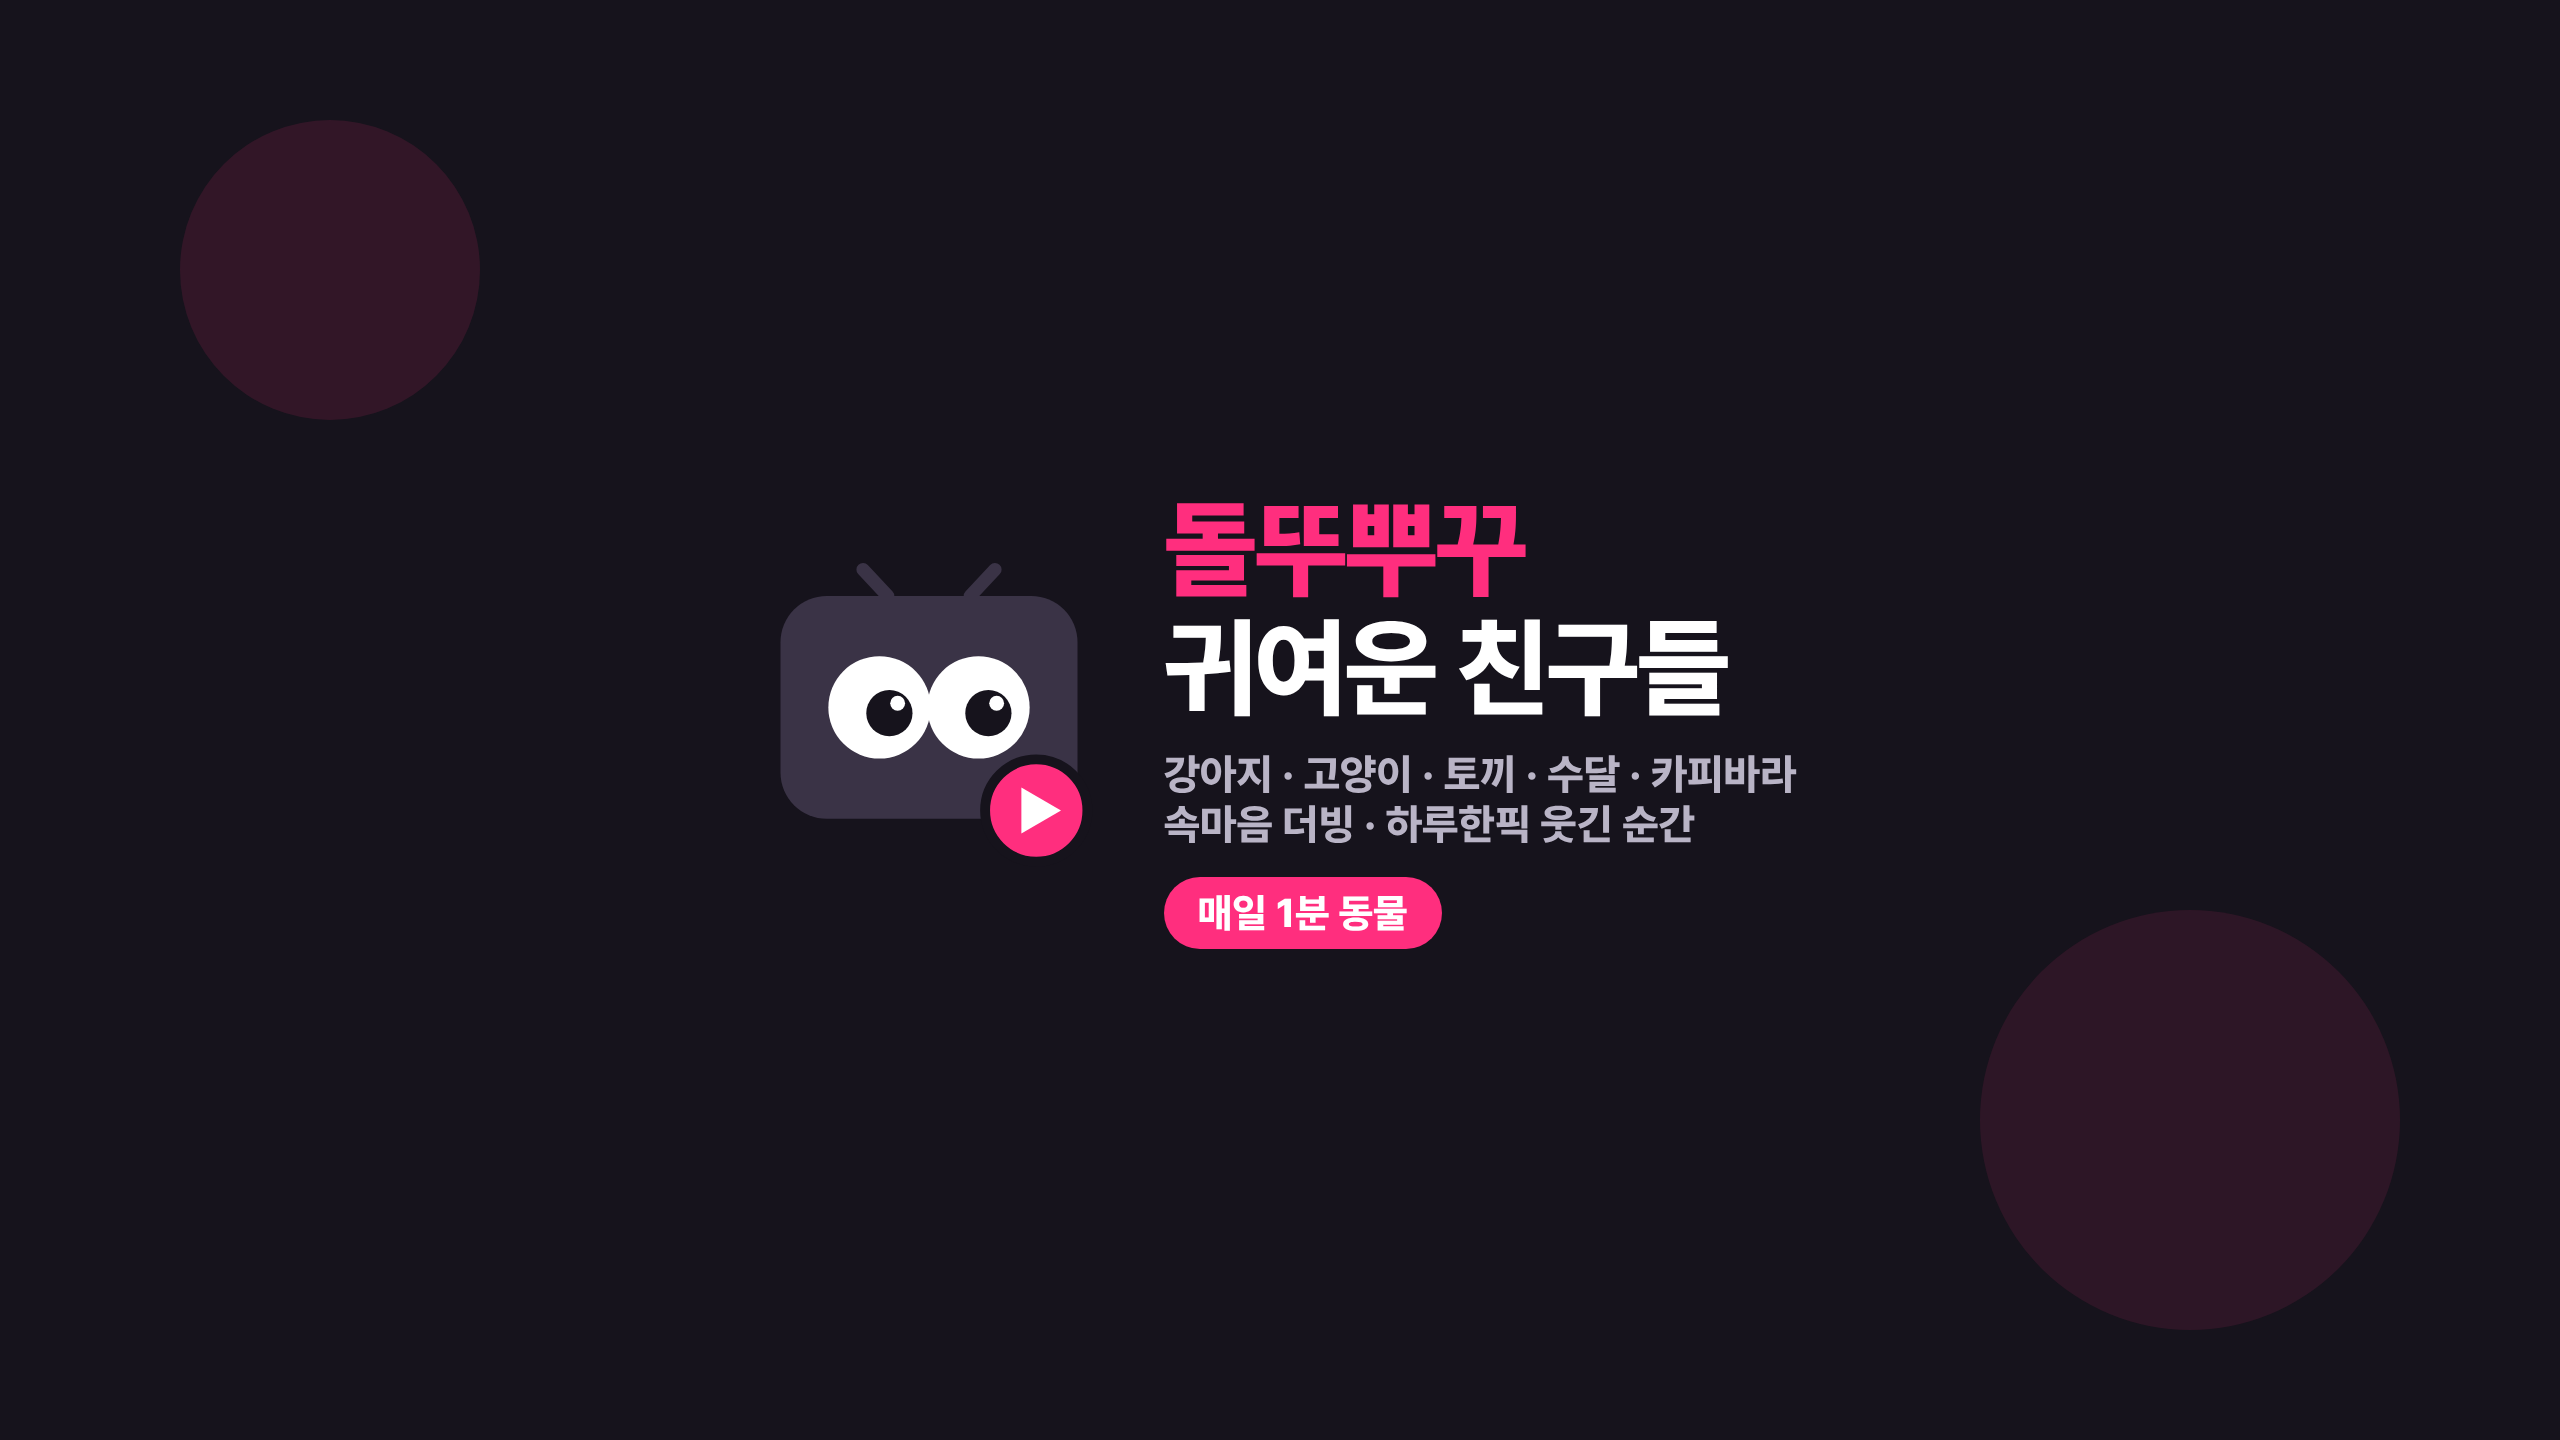
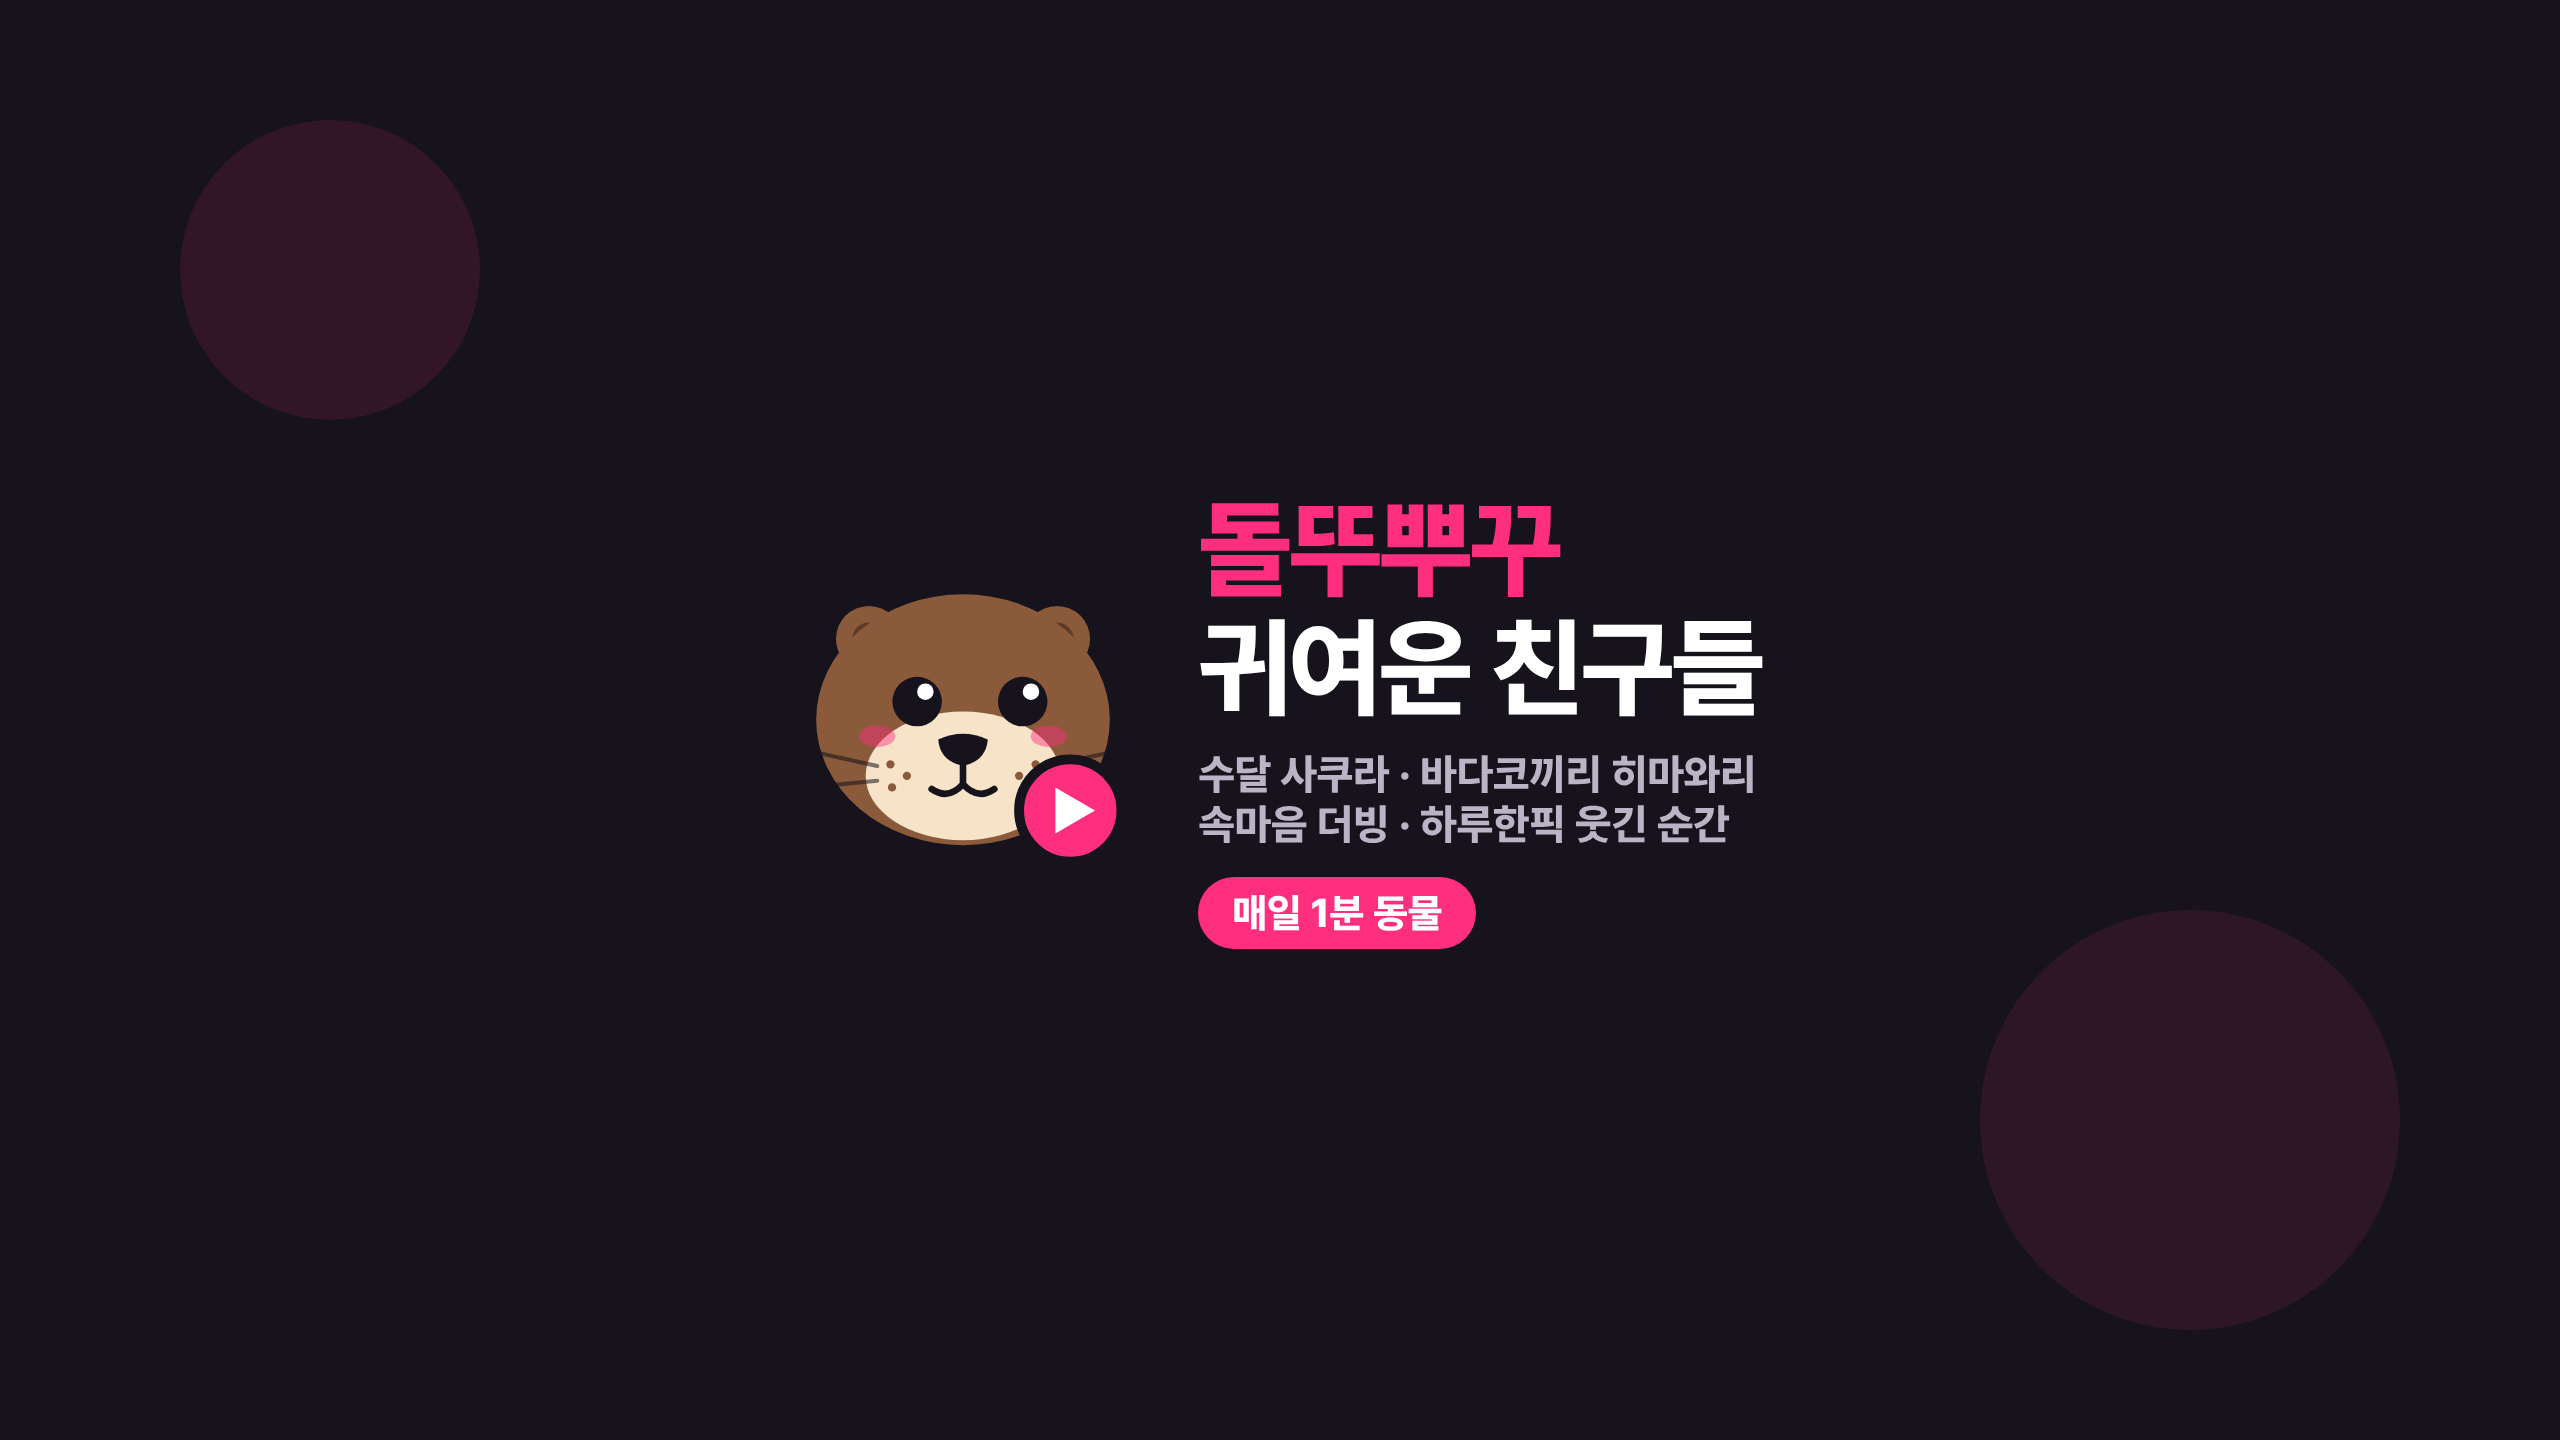
채널 얼굴을 수달 캐릭터로: 프로필·배너·인트로 (#20)
TV 로고 대신 수달 얼굴(눈동자 움직임·재생 배지는 그대로), 배너 소개줄은 투톱 시리즈 이름으로.
HTML에 charset 을 넣어 배너 한글이 깨지던 문제도 고침.

Claude-Session: https://claude.ai/code/session_01An2g1hzBfzo1BvParNwkus

Changed region(s): [[0.2812, 0.3438, 0.7188, 0.6562]]

diff --git a/channel/brand.py b/channel/brand.py
@@ -12,17 +12,26 @@ ROOT = os.path.dirname(os.path.dirname(os.path.abspath(__file__)))
 FONT = os.path.join(ROOT, "shorts", ".cache", "Pretendard-ExtraBold.otf")  # make.py downloads it
 CHROME = glob.glob("/opt/pw-browsers/chromium_headless_shell-*/*/headless_shell")[0]
 PINK, DARK, WHITE = "#FF2E7E", "#16131C", "#FFFFFF"
+BROWN, FUR, CREAM = "#8A5A3B", "#5E3B26", "#F6E3C8"  # otter face
 FPS, DUR, SR = 30, 1.0, 44100
 
 def logo(look=1.0, badge=1.0):
-    """TV screen with two eyes watching for you; look -1..1 moves the pupils, badge scales the play button."""
-    px = 20 * look
+    """Otter face peeking at you; look -1..1 moves the pupils, badge scales the play button."""
+    px = 14 * look
     return f"""<svg viewBox="0 0 400 380" xmlns="http://www.w3.org/2000/svg" style="overflow:visible">
-  <path d="M150 40 L120 8 M250 40 L280 8" stroke="{DARK}" stroke-width="16" stroke-linecap="round"/>
-  <rect x="20" y="40" width="360" height="270" rx="56" fill="{DARK}"/>
-  <circle cx="140" cy="175" r="62" fill="{WHITE}"/><circle cx="260" cy="175" r="62" fill="{WHITE}"/>
-  <circle cx="{140 + px}" cy="182" r="28" fill="{DARK}"/><circle cx="{260 + px}" cy="182" r="28" fill="{DARK}"/>
-  <circle cx="{150 + px}" cy="170" r="9" fill="{WHITE}"/><circle cx="{270 + px}" cy="170" r="9" fill="{WHITE}"/>
+  <circle cx="86" cy="92" r="40" fill="{BROWN}"/><circle cx="314" cy="92" r="40" fill="{BROWN}"/>
+  <circle cx="86" cy="92" r="20" fill="{FUR}"/><circle cx="314" cy="92" r="20" fill="{FUR}"/>
+  <ellipse cx="200" cy="190" rx="178" ry="152" fill="{BROWN}"/>
+  <ellipse cx="200" cy="258" rx="118" ry="78" fill="{CREAM}"/>
+  <ellipse cx="148" cy="248" rx="58" ry="46" fill="{CREAM}"/><ellipse cx="252" cy="248" rx="58" ry="46" fill="{CREAM}"/>
+  <circle cx="{136 + px}" cy="168" r="30" fill="{DARK}"/><circle cx="{264 + px}" cy="168" r="30" fill="{DARK}"/>
+  <circle cx="{146 + px}" cy="156" r="10" fill="{WHITE}"/><circle cx="{274 + px}" cy="156" r="10" fill="{WHITE}"/>
+  <path d="M170 214 Q200 200 230 214 Q228 240 200 246 Q172 240 170 214 Z" fill="{DARK}"/>
+  <path d="M200 246 L200 268 M200 268 Q182 288 162 274 M200 268 Q218 288 238 274" stroke="{DARK}" stroke-width="8" fill="none" stroke-linecap="round"/>
+  <circle cx="132" cy="258" r="5" fill="{BROWN}"/><circle cx="112" cy="244" r="5" fill="{BROWN}"/><circle cx="114" cy="272" r="5" fill="{BROWN}"/>
+  <circle cx="268" cy="258" r="5" fill="{BROWN}"/><circle cx="288" cy="244" r="5" fill="{BROWN}"/><circle cx="286" cy="272" r="5" fill="{BROWN}"/>
+  <path d="M96 246 L14 228 M96 264 L12 272 M304 246 L386 228 M304 264 L388 272" stroke="{DARK}" stroke-width="5" stroke-linecap="round" opacity=".55"/>
+  <ellipse cx="96" cy="210" rx="22" ry="13" fill="{PINK}" opacity=".45"/><ellipse cx="304" cy="210" rx="22" ry="13" fill="{PINK}" opacity=".45"/>
   <g transform="translate(330 300) scale({badge})">
     <circle r="62" fill="{PINK}" stroke="{DARK}" stroke-width="12"/><path d="M-18 -28 L30 0 L-18 28 Z" fill="{WHITE}"/>
   </g>
@@ -30,7 +39,7 @@ def logo(look=1.0, badge=1.0):
 
 def shot(html, w, h, out):
     with tempfile.NamedTemporaryFile("w", suffix=".html", delete=False) as f:
-        f.write(f"<html><head><style>@font-face{{font-family:P;src:url(file://{FONT})}}"
+        f.write(f"<html><head><meta charset=utf-8><style>@font-face{{font-family:P;src:url(file://{FONT})}}"
                 f"body{{margin:0;width:{w}px;height:{h}px;overflow:hidden;font-family:P}}</style></head><body>{html}</body></html>")
     subprocess.run([CHROME, "--no-sandbox", "--hide-scrollbars", f"--window-size={w},{h}", f"--screenshot={out}",
                     f"file://{f.name}"], check=True, capture_output=True)
@@ -48,9 +57,9 @@ def banner():
       <div style="position:absolute;left:180px;top:120px;width:300px;height:300px;border-radius:50%;background:{PINK};opacity:.12"></div>
       <div style="position:absolute;right:160px;bottom:110px;width:420px;height:420px;border-radius:50%;background:{PINK};opacity:.10"></div>
       <div style="position:absolute;left:507px;top:508px;width:1546px;height:423px;display:flex;align-items:center;justify-content:center;gap:70px">
-        <div style="width:330px;height:314px;flex:none">{logo(0.6).replace(f'stroke="{DARK}" stroke-width="16"', 'stroke="#3A3346" stroke-width="16"').replace(f'rx="56" fill="{DARK}"', 'rx="56" fill="#3A3346"')}</div>
+        <div style="width:330px;height:314px;flex:none">{logo(0.6)}</div>
         <div><div style="font-size:108px;color:{WHITE};letter-spacing:-3px;line-height:1.1"><span style="color:{PINK}">돌뚜뿌꾸</span><br>귀여운 친구들</div>
-          <div style="margin-top:22px;font-size:42px;color:#B9B4C6">강아지 · 고양이 · 토끼 · 수달 · 카피바라<br>속마음 더빙 · 하루한픽 웃긴 순간</div>
+          <div style="margin-top:22px;font-size:42px;color:#B9B4C6">수달 사쿠라 · 바다코끼리 히마와리<br>속마음 더빙 · 하루한픽 웃긴 순간</div>
           <div style="display:inline-block;margin-top:28px;background:{PINK};color:{WHITE};font-size:40px;padding:12px 34px;border-radius:999px">매일 1분 동물</div></div>
       </div></div>""", 2560, 1440, os.path.join(ROOT, "channel", "banner.png"))
 
